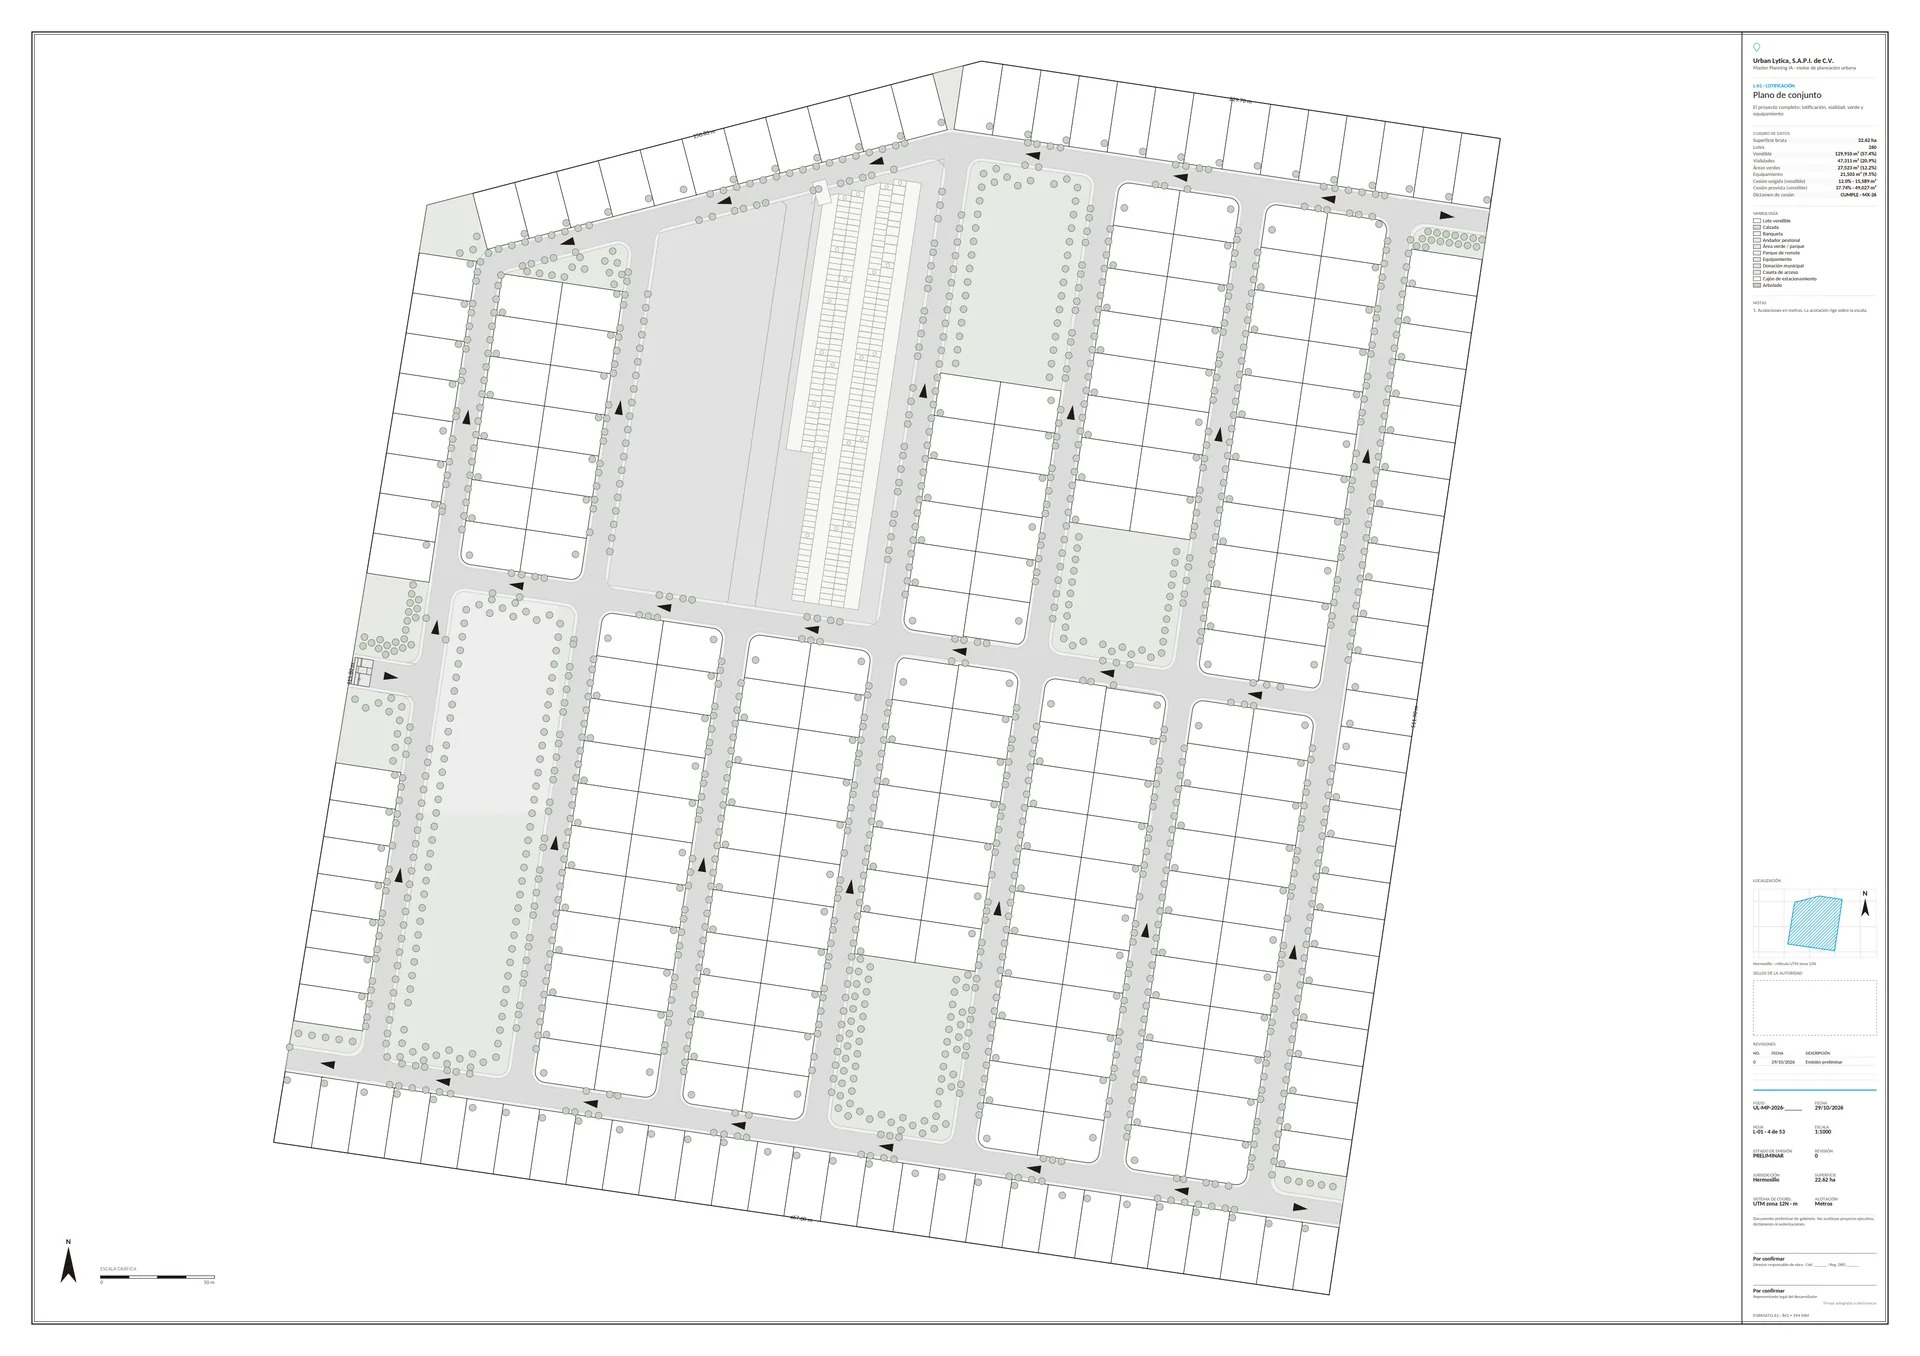
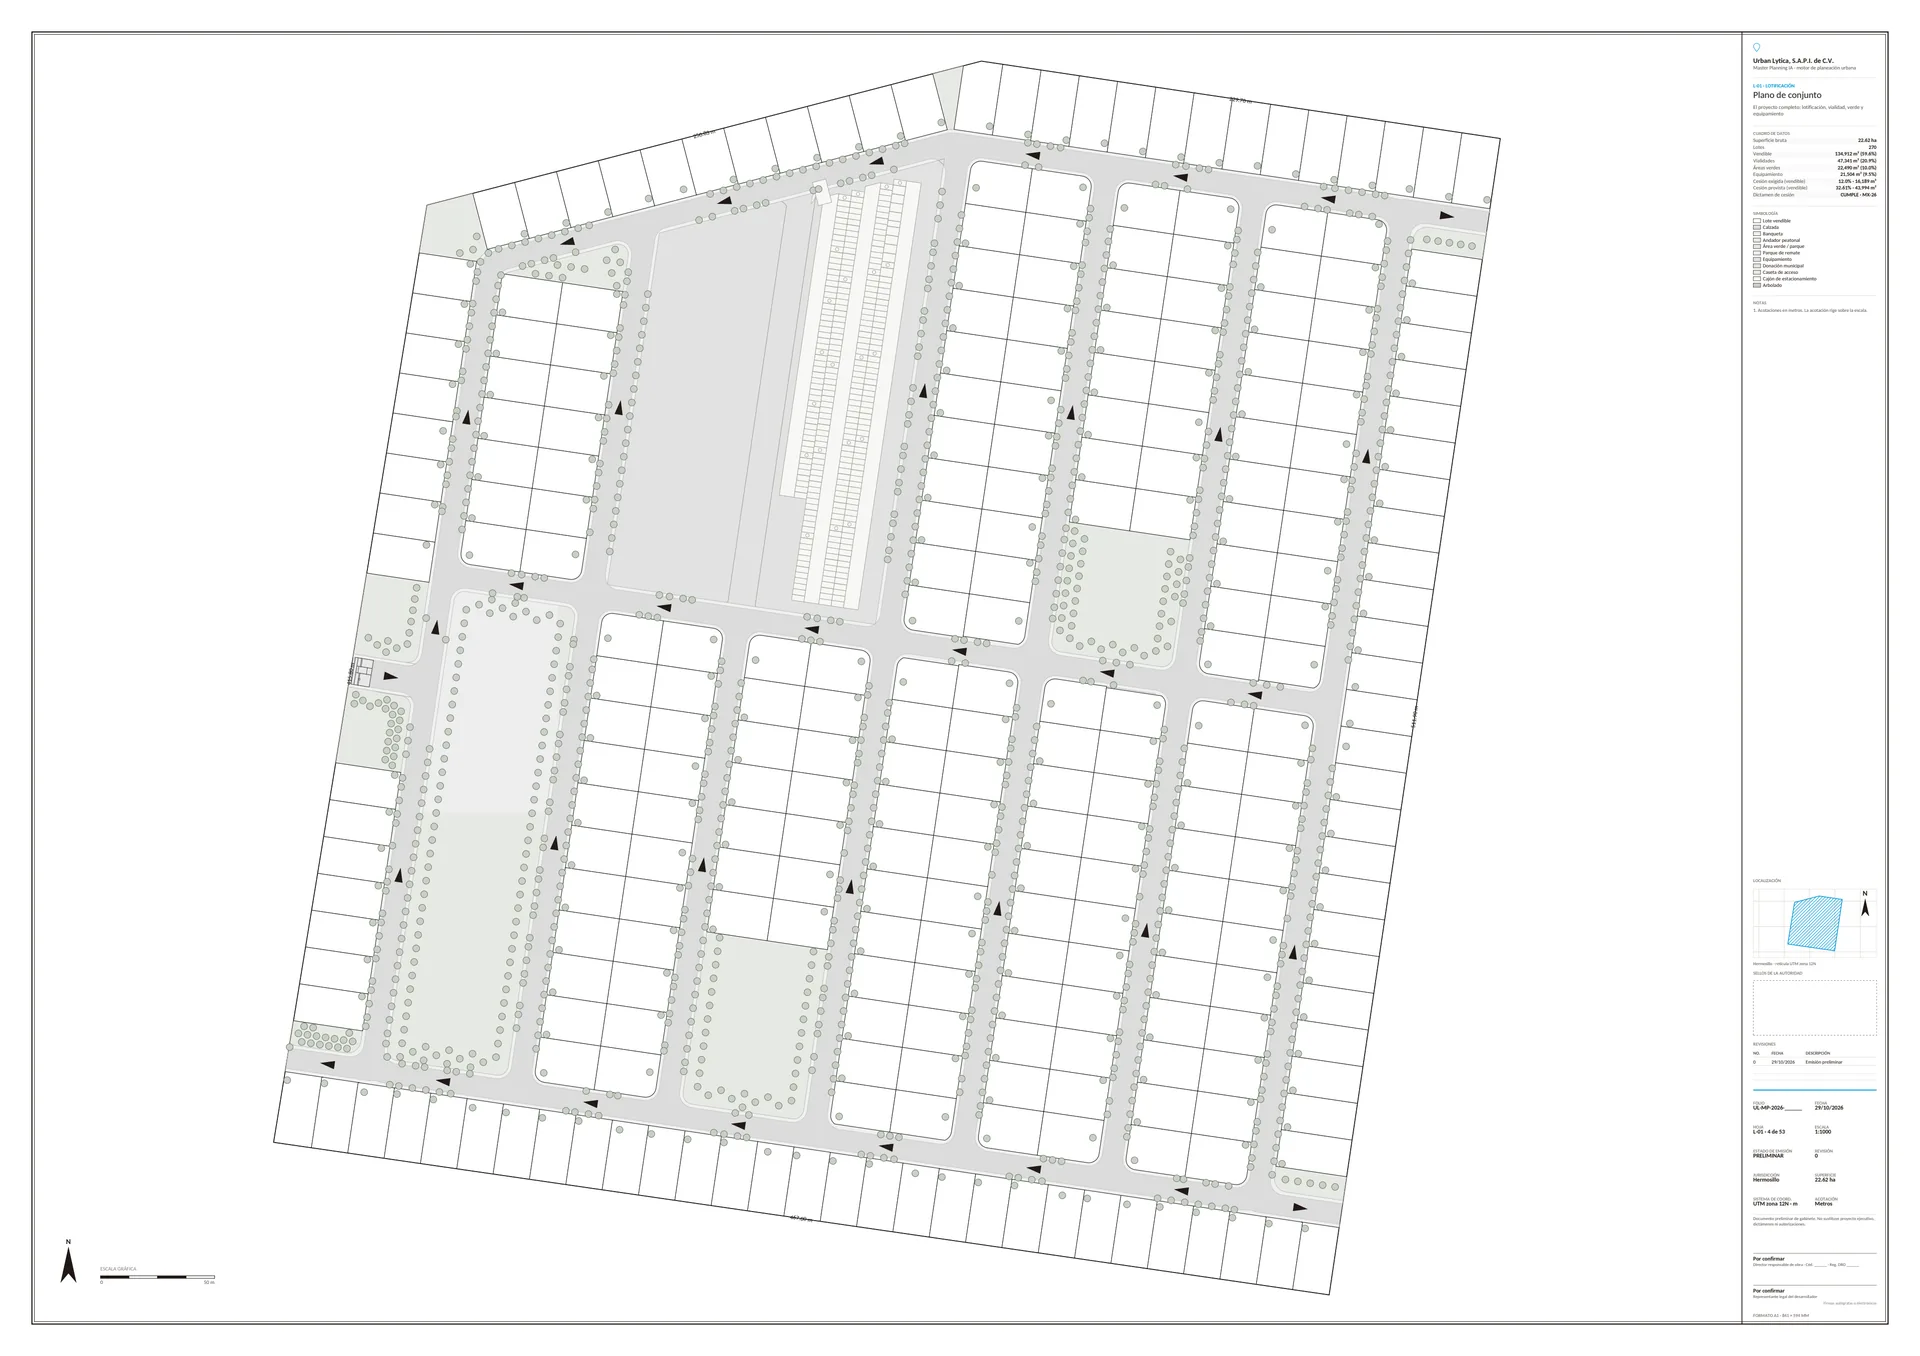
Ejemplo con la regla estándar de parque (K22): 270 lotes, 59.6 % vendible; dos jardines de cabecera en manzanas no vecinas

diff --git a/index.html b/index.html
@@ -687,11 +687,11 @@ dialog.legal-doc::backdrop{background:rgba(8,15,24,.62)}
         <img src="assets/producto/hero-plano-1920.webp"
              srcset="assets/producto/hero-plano-1200.webp 1200w, assets/producto/hero-plano-1920.webp 1920w"
              sizes="(max-width: 1240px) 100vw, 1120px" width="1920" height="1200" fetchpriority="high"
-             alt="Captura de la plataforma: condominio de 260 lotes trazado sobre la imagen satelital de un predio de 22.6 hectáreas en Hermosillo, con calles, parques y equipamiento"
+             alt="Captura de la plataforma: condominio de 270 lotes trazado sobre la imagen satelital de un predio de 22.6 hectáreas en Hermosillo, con calles, parques y equipamiento"
              data-i18n-alt="hero.shot.alt">
       </div>
       <figcaption>
-        <span data-i18n-html="hero.shot.cap"><b>Captura real de la plataforma.</b> Predio de 22.6 ha en Hermosillo, Sonora: 260 lotes trazados en régimen de condominio sobre la imagen satelital.</span>
+        <span data-i18n-html="hero.shot.cap"><b>Captura real de la plataforma.</b> Predio de 22.6 ha en Hermosillo, Sonora: 270 lotes trazados en régimen de condominio sobre la imagen satelital.</span>
         <span>29 oct 2026 · © Mapbox · © Maxar</span>
       </figcaption>
     </figure>
@@ -853,8 +853,8 @@ dialog.legal-doc::backdrop{background:rgba(8,15,24,.62)}
           <div class="frame">
             <div class="frame-bar"><span class="frame-title" data-i18n="mod.gen.frame">Vista 2D · indicadores del plan</span></div>
             <div class="kpis">
-              <div><b>57.4%</b><span data-i18n="kpi.sale">vendible</span></div>
-              <div><b>260</b><span data-i18n="kpi.lots">lotes</span></div>
+              <div><b>59.6%</b><span data-i18n="kpi.sale">vendible</span></div>
+              <div><b>270</b><span data-i18n="kpi.lots">lotes</span></div>
               <div><b>20.9%</b><span data-i18n="kpi.road">vialidad</span></div>
               <div><b>22.6 ha</b><span data-i18n="kpi.area">superficie</span></div>
             </div>
@@ -1055,7 +1055,7 @@ dialog.legal-doc::backdrop{background:rgba(8,15,24,.62)}
           <div class="frame">
             <div class="frame-bar"><span class="frame-title" data-i18n="mod.fin.frame">Resumen del escenario</span></div>
             <div class="frame-body rows">
-              <div class="row"><span class="mark y">&#10003;</span><span class="t" data-i18n="mod.fin.r1">Superficie vendible · 129,910 m²</span></div>
+              <div class="row"><span class="mark y">&#10003;</span><span class="t" data-i18n="mod.fin.r1">Superficie vendible · 134,912 m²</span></div>
               <div class="row"><span class="mark y">&#10003;</span><span class="t" data-i18n="mod.fin.r2">Costo de urbanización · presupuesto paramétrico por partidas</span></div>
               <div class="row"><span class="mark y">&#10003;</span><span class="t" data-i18n="mod.fin.r3">Delta contra el plan base, en pesos y en metros</span></div>
             </div>
@@ -1109,7 +1109,7 @@ dialog.legal-doc::backdrop{background:rgba(8,15,24,.62)}
         <img src="assets/producto/lamina-l01-1920.webp"
              srcset="assets/producto/lamina-l01-1200.webp 1200w, assets/producto/lamina-l01-1920.webp 1920w"
              sizes="(max-width: 1240px) 100vw, 1120px" width="1920" height="1356" loading="lazy"
-             alt="Hoja L-01, plano de conjunto, generada por la plataforma: lotificación con la poligonal acotada, norte, escala gráfica y cartucho con el cuadro de datos de 260 lotes y los campos de firma del director responsable"
+             alt="Hoja L-01, plano de conjunto, generada por la plataforma: lotificación con la poligonal acotada, norte, escala gráfica y cartucho con el cuadro de datos de 270 lotes y los campos de firma del director responsable"
              data-i18n-alt="show.alt">
       </div>
       <figcaption>
@@ -1708,7 +1708,7 @@ var EN = {
 "show.n1.p":"Company, folio, date, sheet, scale, jurisdiction and UTM coordinate system.",
 "show.n1.k":"Title block",
 "show.cap":"<b>Sheet L-01 · Site plan.</b> Generated by the platform, untouched; your engineer of record signs it.",
-"show.alt":"Sheet L-01, site plan, generated by the platform: platting with the dimensioned boundary, north arrow, graphic scale and a title block with the data table for 260 lots and the engineer-of-record signature fields",
+"show.alt":"Sheet L-01, site plan, generated by the platform: platting with the dimensioned boundary, north arrow, graphic scale and a title block with the data table for 270 lots and the engineer-of-record signature fields",
 "show.lead":"Every project comes out as a drawing set with title block, data table and dimensions. This is sheet <b>L-01, site plan</b>, exactly as the platform generates it for the same 22.6 ha site.",
 "show.h2":"A sheet ready for the permit file.",
 "show.eyebrow":"The deliverable",
@@ -1724,8 +1724,8 @@ var EN = {
 "band.s1":"ROU 2025 and PMDU 2023, by zone",
 "band.norm":"Code integrated",
 "band.aria":"Code integrated",
-"hero.shot.cap":"<b>Real screenshot of the platform.</b> 22.6 ha site in Hermosillo, Sonora: 260 lots laid out as a private-street development over the satellite image.",
-"hero.shot.alt":"Screenshot of the platform: a 260-lot private-street development laid out over the satellite image of a 22.6-hectare site in Hermosillo, with streets, parks and facilities",
+"hero.shot.cap":"<b>Real screenshot of the platform.</b> 22.6 ha site in Hermosillo, Sonora: 270 lots laid out as a private-street development over the satellite image.",
+"hero.shot.alt":"Screenshot of the platform: a 270-lot private-street development laid out over the satellite image of a 22.6-hectare site in Hermosillo, with streets, parks and facilities",
 "skip":"Skip to content",
 
 
@@ -1839,7 +1839,7 @@ var EN = {
 "mod.fin.p2":"Every alternative comes with its numbers, so the decision with your investment committee is made on the same study.",
 "mod.fin.c1":"Quantities by trade","mod.fin.c2":"Parametric budget","mod.fin.c4":"Comparative report",
 "mod.fin.frame":"Scenario summary",
-"mod.fin.r1":"Saleable area · 129,910 m²",
+"mod.fin.r1":"Saleable area · 134,912 m²",
 "mod.fin.r2":"Infrastructure cost · parametric budget by trade",
 "mod.fin.r3":"Delta against the baseline plan, in money and in metres",
 "mod.ent.t":"Deliverables and sign-off","mod.ent.s":"What we deliver, and who signs it",
